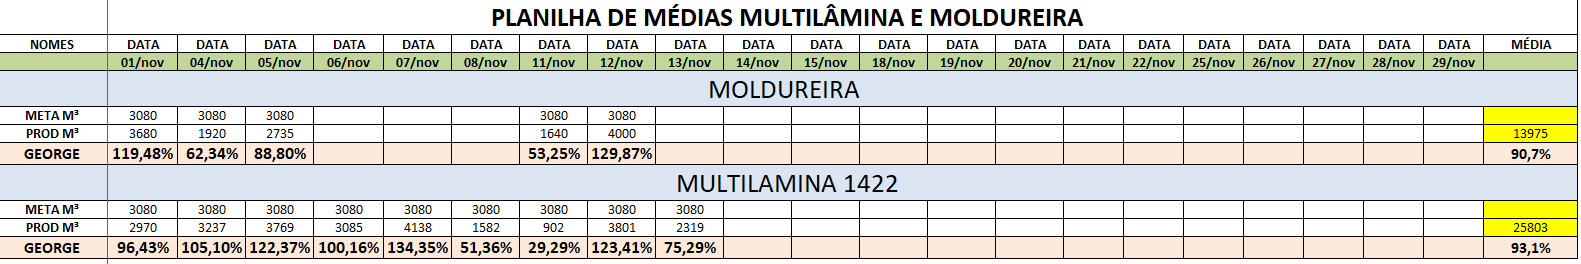
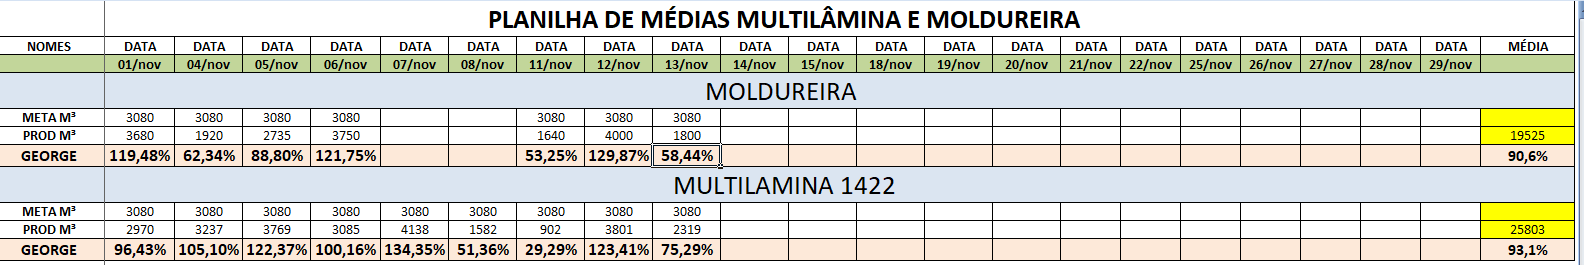
,

Changed region(s): [[0.0, 0.0, 1.0, 1.0]]

diff --git a/back__incial.js b/back__incial.js
@@ -452,7 +452,7 @@ const unidades = {
 
             { data: "05/11/2024", captura: ["capturas/Unidade 2/Usinagem/2024/11- Novembro/CNC/5-pt1.png", "capturas/Unidade 2/Usinagem/2024/11- Novembro/CNC/5-pt2.png"] },
             { data: "06/11/2024", captura: ["capturas/Unidade 2/Usinagem/2024/11- Novembro/CNC/6-pt1.png", "capturas/Unidade 2/Usinagem/2024/11- Novembro/CNC/6-pt2.png"] },
-
+            { data: "13/11/2024", captura: ["capturas/Unidade 2/Usinagem/2024/11- Novembro/CNC/13 pt1.jpg", "capturas/Unidade 2/Usinagem/2024/11- Novembro/CNC/13 pt2.jpg"] },
 
             // { data: "", captura: ["", ""] },
             // { data: "", captura: ["", ""] },
